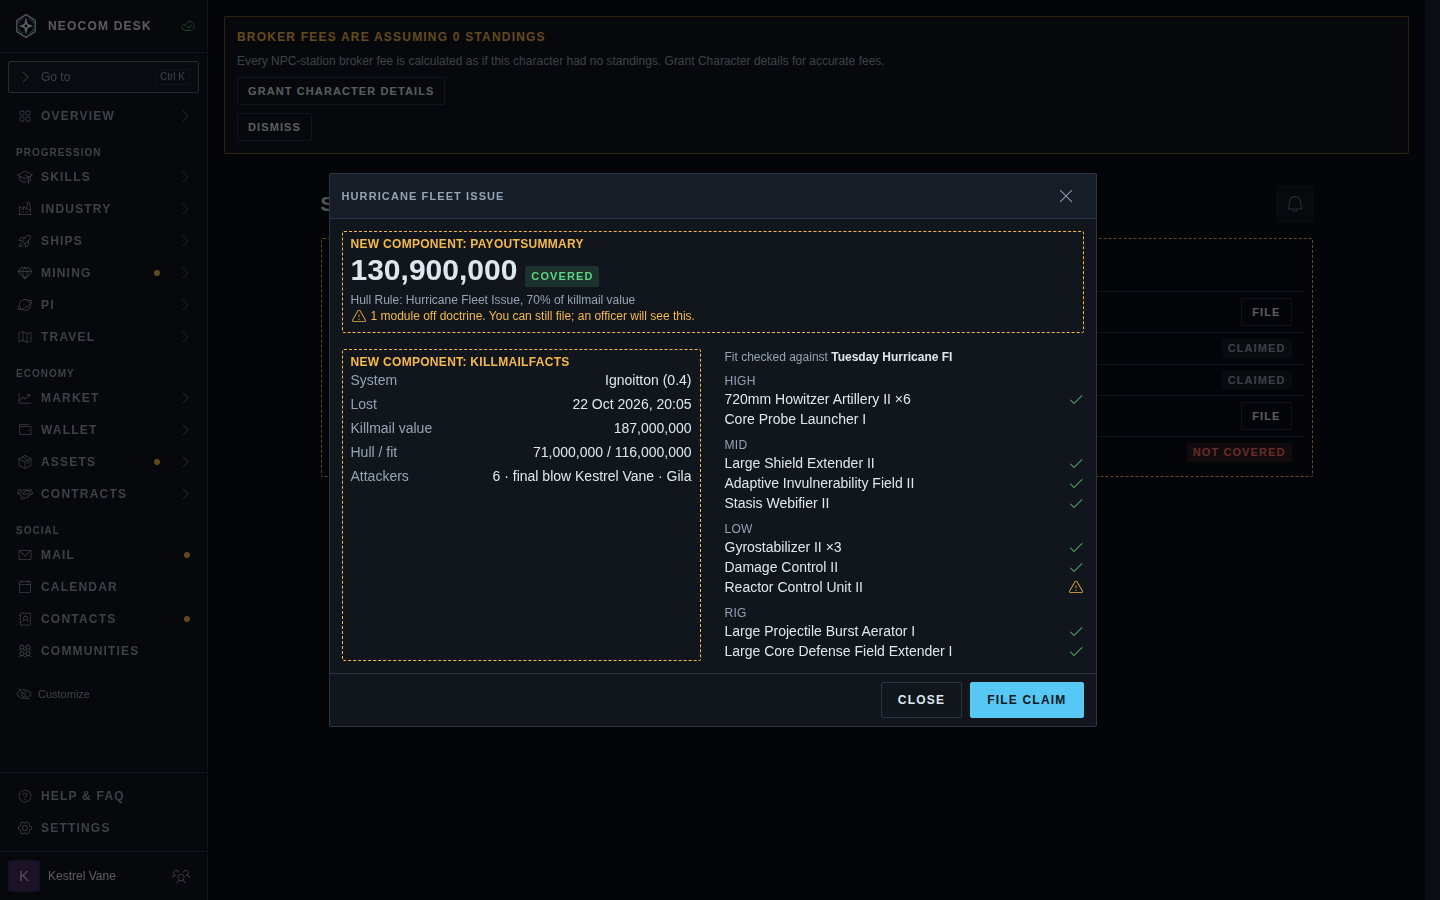
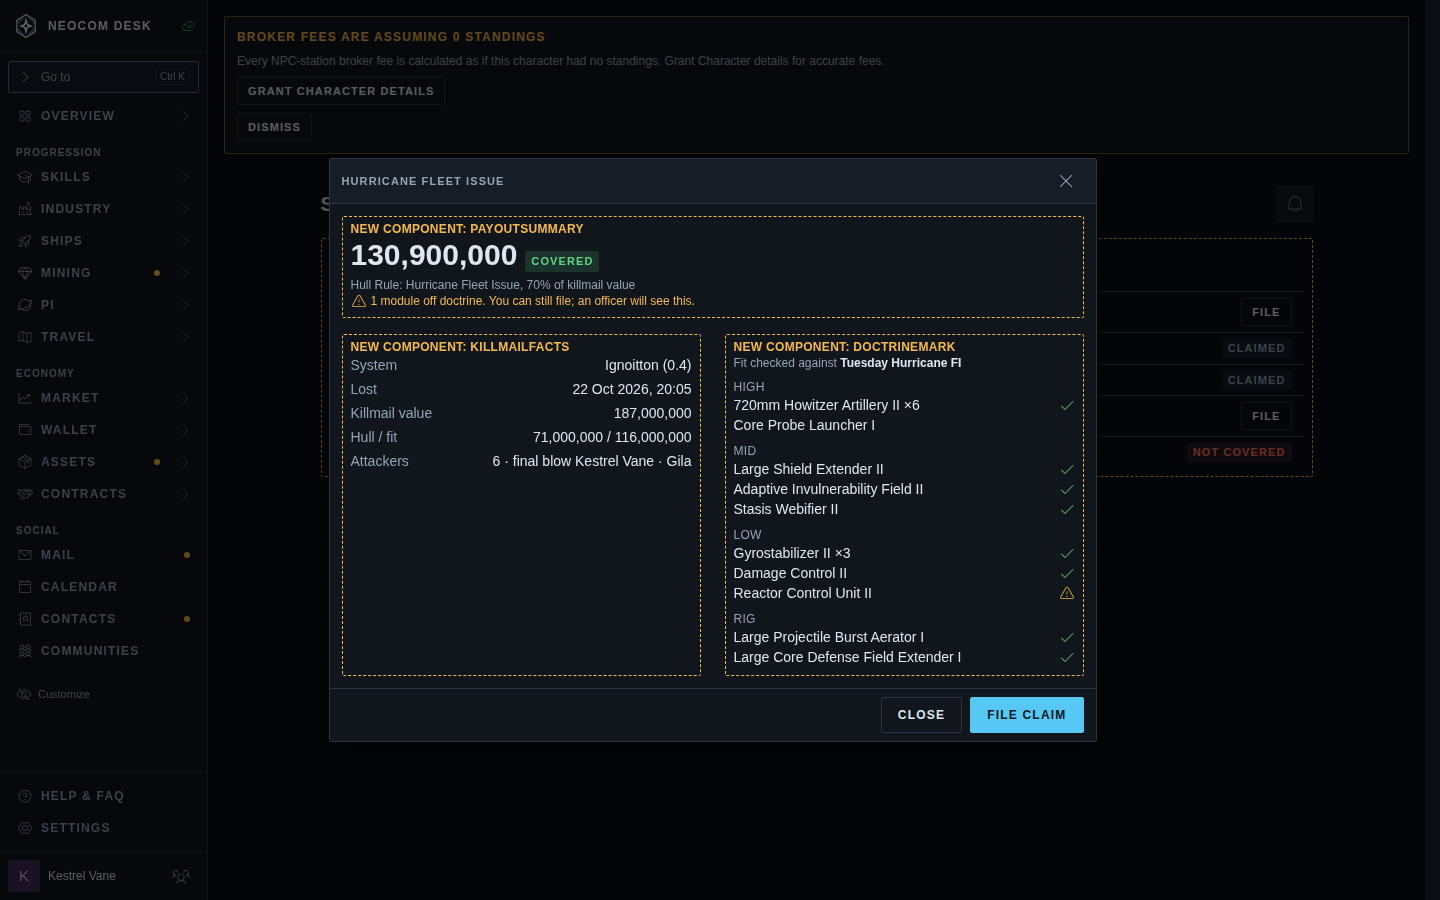
docs(mockups): address review of the SRP killmail mockup (#5379)
Phone variant for the combined story, NewComponent label on the doctrine
marks, one PayoutSummary and doctrineStatus helper, doc-comment wording.

Claude-Session: https://claude.ai/code/session_01SLzxhUhJxaFiTN3Z9yqeU6

Changed region(s): [[0.25, 0.3733, 0.75, 0.84], [0.2188, 0.1556, 0.7812, 0.5289]]

diff --git a/src/mockups/SrpKillmail.stories.tsx b/src/mockups/SrpKillmail.stories.tsx
@@ -91,6 +91,12 @@ function Facts() {
   );
 }
 
+/** The sample doctrine check: the Reactor Control Unit is off doctrine, the probe launcher isn't listed. */
+function doctrineStatus(item: string): 'ok' | 'off' | null {
+  if (item.startsWith('Core Probe')) return null;
+  return item.startsWith('Reactor') ? 'off' : 'ok';
+}
+
 function Fit({ flag }: { flag?: (item: string) => 'ok' | 'off' | null }) {
   return (
     <div className="space-y-2">
@@ -138,6 +144,20 @@ function Shell({ children }: { children: ReactNode }) {
   );
 }
 
+/** The payout answer: the amount, its Hull Rule, then the claim's notes. */
+function PayoutSummary({ children }: { children: ReactNode }) {
+  return (
+    <NewComponent name="PayoutSummary">
+      <div className="flex items-baseline gap-2">
+        <span className="text-3xl font-semibold tabular-nums">{formatIsk(SHIP.amount)}</span>
+        <Pill tone="success">Covered</Pill>
+      </div>
+      <p className="mt-1 text-xs text-text-dim">{SHIP.rule}</p>
+      {children}
+    </NewComponent>
+  );
+}
+
 function Dialog({ footer, children }: { footer: ReactNode; children: ReactNode }) {
   const phone = useIsPhone();
   return (
@@ -159,14 +179,9 @@ export const ClaimFirst: Story = {
     <Shell>
       <Dialog footer={<FileButtons />}>
         <div className="space-y-4">
-          <NewComponent name="PayoutSummary">
-            <div className="flex items-baseline gap-2">
-              <span className="text-3xl font-semibold tabular-nums">{formatIsk(SHIP.amount)}</span>
-              <Pill tone="success">Covered</Pill>
-            </div>
-            <p className="mt-1 text-xs text-text-dim">{SHIP.rule}</p>
+          <PayoutSummary>
             <p className="text-xs text-text-dim">Fit matches your corp's doctrine. 1 day old.</p>
-          </NewComponent>
+          </PayoutSummary>
           <Facts />
           <Fit />
         </div>
@@ -214,11 +229,7 @@ export const FitAgainstDoctrine: Story = {
             doctrine. You can still file; an officer will see this.
           </p>
           <NewComponent name="DoctrineFitCheck">
-            <Fit
-              flag={(item) =>
-                item.startsWith('Reactor') ? 'off' : item.startsWith('Core Probe') ? null : 'ok'
-              }
-            />
+            <Fit flag={(item) => doctrineStatus(item)} />
           </NewComponent>
           <Facts />
           <p className="text-sm tabular-nums">
@@ -232,13 +243,13 @@ export const FitAgainstDoctrine: Story = {
   ),
 };
 
-const phone = { globals: { viewport: { value: 'phone390', isRotated: false } } };
+const phoneGlobals = { globals: { viewport: { value: 'phone390', isRotated: false } } };
 /** @summary A on a phone: bottom sheet. */
-export const ClaimFirstPhone: Story = { ...ClaimFirst, ...phone };
+export const ClaimFirstPhone: Story = { ...ClaimFirst, ...phoneGlobals };
 /** @summary B on a phone: single column, amount above the buttons. */
-export const KillmailFirstPhone: Story = { ...KillmailFirst, ...phone };
+export const KillmailFirstPhone: Story = { ...KillmailFirst, ...phoneGlobals };
 /** @summary C on a phone: bottom sheet. */
-export const FitAgainstDoctrinePhone: Story = { ...FitAgainstDoctrine, ...phone };
+export const FitAgainstDoctrinePhone: Story = { ...FitAgainstDoctrine, ...phoneGlobals };
 
 function DoctrineMark({ ok }: { ok: boolean }) {
   return (
@@ -259,6 +270,21 @@ function DoctrineMark({ ok }: { ok: boolean }) {
   );
 }
 
+function CombinedDialog({ children }: { children: ReactNode }) {
+  const phone = useIsPhone();
+  return (
+    <Modal
+      open
+      onClose={() => undefined}
+      placement={phone ? 'sheet' : 'medium'}
+      title={SHIP.hull}
+      footer={<FileButtons />}
+    >
+      {children}
+    </Modal>
+  );
+}
+
 function CheckedFit() {
   return (
     <div className="space-y-2">
@@ -272,8 +298,8 @@ function CheckedFit() {
             {g.items.map((item) => (
               <li key={item} className="flex items-center gap-2">
                 <span>{item}</span>
-                {item.startsWith('Core Probe') ? null : (
-                  <DoctrineMark ok={!item.startsWith('Reactor')} />
+                {doctrineStatus(item) !== null && (
+                  <DoctrineMark ok={doctrineStatus(item) === 'ok'} />
                 )}
               </li>
             ))}
@@ -299,33 +325,27 @@ function CheckedFit() {
 export const Combined: Story = {
   render: () => (
     <Shell>
-      <Modal
-        open
-        onClose={() => undefined}
-        placement="medium"
-        title={SHIP.hull}
-        footer={<FileButtons />}
-      >
+      <CombinedDialog>
         <div className="space-y-4">
-          <NewComponent name="PayoutSummary">
-            <div className="flex items-baseline gap-2">
-              <span className="text-3xl font-semibold tabular-nums">{formatIsk(SHIP.amount)}</span>
-              <Pill tone="success">Covered</Pill>
-            </div>
-            <p className="mt-1 text-xs text-text-dim">{SHIP.rule}</p>
+          <PayoutSummary>
             <p className="flex items-center gap-1 text-xs text-warning">
               <Icon.Warn size={Icon.ICON_SIZE.sm} aria-hidden="true" />1 module off doctrine. You
               can still file; an officer will see this.
             </p>
-          </NewComponent>
+          </PayoutSummary>
           <div className="grid gap-x-6 gap-y-4 md:grid-cols-2">
             <NewComponent name="KillmailFacts">
               <Facts />
             </NewComponent>
-            <CheckedFit />
+            <NewComponent name="DoctrineMark">
+              <CheckedFit />
+            </NewComponent>
           </div>
         </div>
-      </Modal>
+      </CombinedDialog>
     </Shell>
   ),
 };
+
+/** @summary Combined on a phone: the same content as a bottom sheet, columns stacked. */
+export const CombinedPhone: Story = { ...Combined, ...phoneGlobals };

diff --git a/docs/design/mockups/srp-killmail/README.md b/docs/design/mockups/srp-killmail/README.md
@@ -1,10 +1,11 @@
 # SRP killmail modal (issue #5379)
 
-Story: `mockups/SrpKillmail` → `combined` (desktop). The chosen layout combines "claim first" (payout on top) and "fit against doctrine" (two columns: facts left, doctrine-checked fit right). The other stories in that file (`claim-first`, `killmail-first`, `fit-against-doctrine` and their phone variants) are the rejected alternatives.
+Story: `mockups/SrpKillmail` → `combined` (and `combined-phone`). The chosen layout combines "claim first" (payout on top) and "fit against doctrine" (two columns: facts left, doctrine-checked fit right). The other stories in that file (`claim-first`, `killmail-first`, `fit-against-doctrine` and their phone variants) are the rejected alternatives.
 
 | Picture | Shows |
 |---|---|
 | `combined-1440.png` | Proposed modal: payout and Hull Rule on top, off-doctrine line, killmail facts left, fit right with green check / yellow exclamation marks (tooltips "Doctrine" / "Off doctrine"; the probe launcher, which the doctrine doesn't list, has no mark) |
+| `combined-390.png` | The same modal on a phone (`combined-phone` story): a bottom sheet, columns stacked, File claim above Close |
 | `officer-slide-over-today-1440.png` | Today's officer claim slide-over (`SrpClaimDetail`), which stays the decision surface; the ticket adds an "Open killmail" link and the appraisal comparison to it |
 
-Not drawn: the officer's appraisal comparison (ship and fit vs doctrine fit, with % difference) and the sheet layout on a phone. The ticket text wins over the picture where they differ; amounts, doctrine name and the Hull Rule line are sample data. The `medium` Modal placement used here is new.
+Not drawn: the officer's appraisal comparison (ship and fit vs doctrine fit, with % difference). The ticket text wins over the picture where they differ; amounts, doctrine name and the Hull Rule line are sample data. The `medium` Modal placement used here is new.
